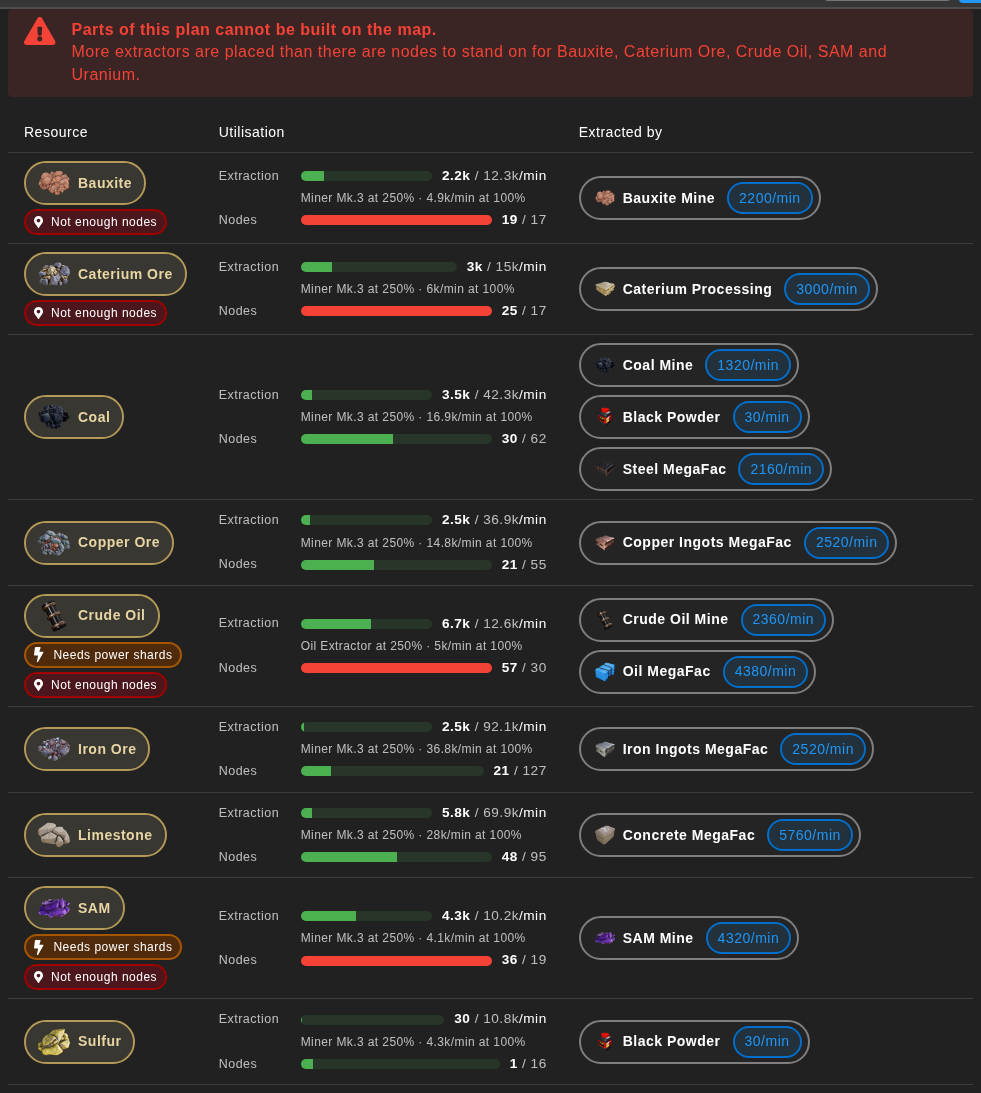
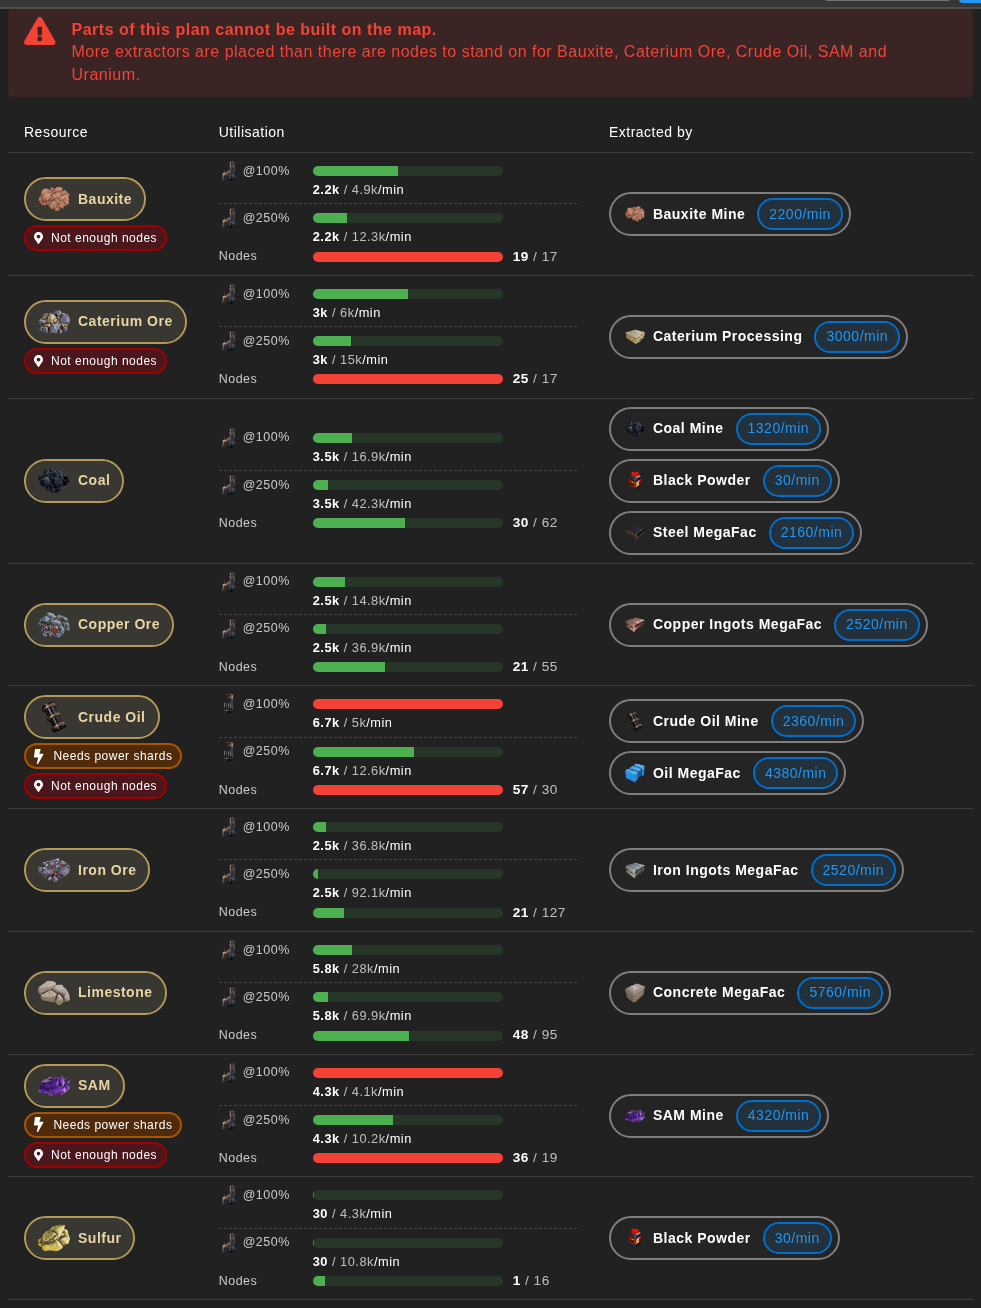
feat(web): a bar per ceiling, all of them the same length
The bars were laid out `84px | 1fr | figures`, so a longer figure beside a bar
stole track from it and no two bars in the table were the same length — the
one thing a column of bars has to be. The track is a fixed 190px now, and the
extraction figures moved underneath their own bar, snug to it, where nothing
they read can change it.

That freed the room to say what the caption underneath was saying in prose.
Extraction is measured against both ceilings, a bar each: what every node
gives unclocked, and what the same nodes give at the 250% cap. Crude Oil at
6.7k against 5k and 6.7k against 12.6k is what "needs power shards" looks
like — one bar full and red, the next with room — rather than a sentence
about it. The extractor those ceilings assume is its own icon rather than its
name, which is both shorter and the thing people recognise.

A dashed rule separates the two ceilings, being the same measure twice; a
solid one separates extraction from nodes, being a change of subject. Nodes
keeps its figures beside its bar, since two short numbers cost nothing there
and the bar's width no longer depends on them.

The header chip read "5 beyond the map", which said the map is missing rather
than that the plan outruns it. It reads "5 beyond map allowances".

Verified in the browser against Mael's MegaPlan. The extractor icon came out
dimmed at first: the key's 0.75 opacity applied to the icon as well as its
text, and that icon is the only thing naming the machine.
[…]

diff --git a/web/src/components/planner/StatisticsResources.vue b/web/src/components/planner/StatisticsResources.vue
@@ -21,7 +21,7 @@
       variant="flat"
     >
       <i class="fas fa-exclamation-triangle" />
-      <span class="ml-2">{{ problems.blockers }} beyond the map</span>
+      <span class="ml-2">{{ problems.blockers }} beyond map allowances</span>
     </v-chip>
     <v-chip
       v-if="problems.needsOverclock.length > 0"
@@ -99,42 +99,52 @@
               </v-chip>
             </div>
           </td>
-          <!-- Extraction and nodes are the same question asked twice — how much of what exists is
-               spoken for — so they read as two bars of one measure rather than two columns. -->
+          <!-- Extraction is measured against both ceilings, one bar each: what the nodes give
+               unclocked, and what they give at the 250% cap. A plan between the two is buildable
+               and needs power shards, which is a thing you see rather than read. The extractor
+               those ceilings assume is named by its own icon — the same nodes worked by a Mk.1
+               come to a quarter of a Mk.3's. -->
           <td class="utilisation">
             <template v-if="!resource.utilisation">
               <span class="text-medium-emphasis">&mdash;</span>
             </template>
             <template v-else-if="resource.utilisation.status === 'unlimited'">
-              <div class="bar-row">
-                <span class="bar-label">Extraction</span>
-                <span class="text-caption text-medium-emphasis">Unlimited &mdash; drawn from any shoreline</span>
-                <span class="bar-values"><b>{{ formatCompactPrecise(resource.totalAmount) }}</b>/min</span>
+              <div class="bar-line">
+                <span class="bar-key">
+                  <game-asset height="20" :subject="resource.utilisation.capacity.extractor" type="building" width="20" />
+                </span>
+                <span class="text-caption text-medium-emphasis">Unlimited &mdash; any shoreline</span>
+                <span class="bar-inline"><b>{{ formatCompactPrecise(resource.totalAmount) }}</b>/min</span>
               </div>
             </template>
             <template v-else>
-              <div class="bar-row">
-                <span class="bar-label">Extraction</span>
-                <v-progress-linear
-                  bg-opacity="0.15"
-                  :color="barColour(resource.utilisation.ofMaxClock)"
-                  height="10"
-                  :model-value="barValue(resource.utilisation.ofMaxClock)"
-                  rounded
-                />
-                <span class="bar-values">
+              <div
+                v-for="ceiling in extractionCeilings(resource.utilisation)"
+                :key="ceiling.clock"
+                class="ceiling"
+              >
+                <div class="bar-line">
+                  <span class="bar-key">
+                    <game-asset height="20" :subject="resource.utilisation.capacity.extractor" type="building" width="20" />
+                    <span class="bar-key-text ml-1">@{{ ceiling.clock }}</span>
+                  </span>
+                  <v-progress-linear
+                    bg-opacity="0.15"
+                    :color="barColour(ceiling.fraction)"
+                    height="10"
+                    :model-value="barValue(ceiling.fraction)"
+                    rounded
+                  />
+                </div>
+                <!-- Snug under its own bar rather than out to the right of it, so every bar in the
+                     table is the same length whatever its figures read. -->
+                <div class="bar-figure">
                   <b>{{ formatCompactPrecise(resource.totalAmount) }}</b>
-                  <span class="text-medium-emphasis"> / {{ formatCompactPrecise(resource.utilisation.capacity.atMaxClock) }}</span>/min
-                </span>
+                  <span class="text-medium-emphasis"> / {{ formatCompactPrecise(ceiling.capacity) }}</span>/min
+                </div>
               </div>
-              <!-- "92.1k/min at 250%" is meaningless without the machine it assumes: the same
-                   nodes worked by a Mk.1 come to a quarter of it. -->
-              <div class="bar-caption text-caption text-medium-emphasis">
-                {{ getBuildingDisplayName(resource.utilisation.capacity.extractor) }} at 250%
-                &middot; {{ formatCompactPrecise(resource.utilisation.capacity.atStandardClock) }}/min at 100%
-              </div>
-              <div v-if="resource.nodeUsage && totalNodes(resource.nodeUsage.nodesAvailable) > 0" class="bar-row">
-                <span class="bar-label">Nodes</span>
+              <div v-if="resource.nodeUsage && totalNodes(resource.nodeUsage.nodesAvailable) > 0" class="bar-line">
+                <span class="bar-key"><span class="bar-key-text">Nodes</span></span>
                 <v-progress-linear
                   bg-opacity="0.15"
                   :color="barColour(nodeFraction(resource.nodeUsage.nodesUsed, resource.nodeUsage.nodesAvailable))"
@@ -142,7 +152,9 @@
                   :model-value="barValue(nodeFraction(resource.nodeUsage.nodesUsed, resource.nodeUsage.nodesAvailable))"
                   rounded
                 />
-                <span class="bar-values">
+                <!-- Node counts are two short numbers, so they stay beside their bar: the bar's
+                     width is fixed, so nothing they do changes its length. -->
+                <span class="bar-inline">
                   <b>{{ formatCompactPrecise(totalNodes(resource.nodeUsage.nodesUsed)) }}</b>
                   <span class="text-medium-emphasis"> / {{ formatCompactPrecise(totalNodes(resource.nodeUsage.nodesAvailable)) }}</span>
                 </span>
@@ -151,9 +163,9 @@
                    "0 / 18" well row saying nothing. -->
               <div
                 v-if="resource.nodeUsage && (totalNodes(resource.nodeUsage.satellitesUsed) > 0 || totalNodes(resource.nodeUsage.nodesAvailable) === 0)"
-                class="bar-row"
+                class="bar-line"
               >
-                <span class="bar-label">Well nodes</span>
+                <span class="bar-key"><span class="bar-key-text">Well nodes</span></span>
                 <v-progress-linear
                   bg-opacity="0.15"
                   :color="barColour(nodeFraction(resource.nodeUsage.satellitesUsed, resource.nodeUsage.satellitesAvailable))"
@@ -161,7 +173,7 @@
                   :model-value="barValue(nodeFraction(resource.nodeUsage.satellitesUsed, resource.nodeUsage.satellitesAvailable))"
                   rounded
                 />
-                <span class="bar-values">
+                <span class="bar-inline">
                   <b>{{ formatCompactPrecise(totalNodes(resource.nodeUsage.satellitesUsed)) }}</b>
                   <span class="text-medium-emphasis"> / {{ formatCompactPrecise(totalNodes(resource.nodeUsage.satellitesAvailable)) }}</span>
                 </span>
@@ -210,7 +222,6 @@
   import {
     getPartDisplayName,
   } from '@/utils/helpers'
-  import { getBuildingDisplayName } from '@/utils/factory-management/common'
   import { PURITY_LABELS } from '@/utils/factory-management/building-groups/extraction'
   import {
     calculateResourceNodeUsage,
@@ -243,6 +254,14 @@
   }
 
   const barValue = (fraction: number) => Math.min(100, Math.max(0, fraction * 100))
+
+  // The two ceilings, in the order a plan meets them: what every node gives with no power shards,
+  // then what the same nodes give at the game's clock cap. Sitting between the two is what
+  // "needs power shards" means, and with a bar each it is visible without reading anything.
+  const extractionCeilings = (utilisation: ResourceUtilisation) => [
+    { clock: '100%', capacity: utilisation.capacity.atStandardClock, fraction: utilisation.ofStandardClock },
+    { clock: '250%', capacity: utilisation.capacity.atMaxClock, fraction: utilisation.ofMaxClock },
+  ]
 
   const nodeFraction = (used: NodeCounts, available: NodeCounts) => {
     const total = totalNodes(available)
@@ -389,40 +408,61 @@
     min-width: 360px;
   }
 
-  // Label, bar, figures — one grid so every row's bar starts and ends on the same pixel, whatever
-  // its label reads.
-  .bar-row {
+  // Key, bar, and (for nodes) figures. The bar's track is a FIXED width rather than a fraction of
+  // what is left: with `1fr` a longer figure beside it stole track, and no two bars in the table
+  // were the same length, which is the one thing a column of bars has to be.
+  .bar-line {
     display: grid;
-    grid-template-columns: 72px minmax(70px, 1fr) auto;
+    grid-template-columns: 84px 190px auto;
     align-items: center;
     gap: 10px;
-    padding: 2px 0;
   }
 
-  .bar-label {
+  .bar-key {
+    display: inline-flex;
+    align-items: center;
     font-size: 0.78rem;
+    white-space: nowrap;
     color: rgb(var(--v-theme-on-surface));
-    opacity: 0.7;
   }
 
-  .bar-values {
+  // Muted on the text alone: dimming the whole key takes the extractor icon down with it, and
+  // the icon is the only thing naming the machine the ceiling assumes.
+  .bar-key-text {
+    opacity: 0.75;
+  }
+
+  // Under its own bar and tight to it: the figure belongs to the bar above, not to the row below.
+  .bar-figure {
+    padding-left: 94px;
+    margin-top: -1px;
+    font-size: 0.8rem;
+  }
+
+  .bar-inline {
     white-space: nowrap;
     font-size: 0.85rem;
   }
 
-  // Indented to the bar's own column, so it reads as a footnote to the bar above rather than a
-  // row of its own.
-  .bar-caption {
-    padding-left: 82px;
-    // Wrapping splits "at 100%" onto its own line, which reads as a third bar's label rather
-    // than the tail of this sentence. The column shrink-wraps, so it simply gets wider.
-    white-space: nowrap;
+  // A dash between the two extraction ceilings — the same measure twice, so they are separated
+  // rather than divided. The solid rule below is for the real change of subject, extraction to
+  // nodes.
+  .ceiling + .ceiling {
+    margin-top: 4px;
+    padding-top: 4px;
+    border-top: 1px dashed rgba(255, 255, 255, 0.16);
+  }
+
+  .ceiling:last-of-type {
+    margin-bottom: 6px;
+    padding-bottom: 6px;
+    border-bottom: 1px solid rgba(255, 255, 255, 0.28);
   }
 
   .details {
     color: var(--sf-status-warning);
     max-width: 46ch;
-    padding-left: 82px;
+    padding-left: 94px;
   }
 
   // v-table's default cell height assumes one line; these rows hold chips and wrap.

diff --git a/web/src/pages/changelog.vue b/web/src/pages/changelog.vue
@@ -279,9 +279,9 @@
           src="/assets/changelog/beta6/raw-resource-utilisation.png"
         />
         <ul class="ml-6 mt-2">
-          <li><b>Extraction</b> is what you take against the most the world can give: 6.7k of 12.6k Crude Oil. Under it, the machine that ceiling assumes — an Oil Extractor at 250% — and what the same nodes give with no power shards at all.</li>
+          <li><b>Extraction</b> gets a bar against each ceiling: what every node gives unclocked, and what the same nodes give at the 250% cap. 6.7k of 5k Crude Oil on the first and 6.7k of 12.6k on the second is exactly what "needs power shards" looks like. The extractor those ceilings assume is named by its own icon.</li>
           <li><b>Nodes</b> is how many extractors your plan places against how many exist to stand on. Purity is picked per building group, so nothing used to stop a plan putting 24 Raw Quartz miners on a map holding 17 quartz nodes.</li>
-          <li>Both are bars: green while there is room, amber from 60%, red from 80%. What is wrong with a resource is a chip beside its name.</li>
+          <li>Every bar is green while there is room, amber from 60%, red from 80%. What is wrong with a resource is a chip beside its name.</li>
           <li>Over the unclocked ceiling your plan needs power shards, and says so. Over the 250% one, the resource simply is not on the map in that quantity.</li>
           <li><b>You are told where the rest could come from.</b> Most resources have a Converter recipe behind them, so a plan short of Uranium is pointed at Uranium Ore (Convert: Bauxite). Crude Oil and SAM have no synthesis route at all, so for those the map's total is final.</li>
           <li>The Raw Resources and Statistics headers both carry a count of what is beyond the map, so a collapsed section still tells you.</li>

diff --git a/web/src/components/planner/Statistics.vue b/web/src/components/planner/Statistics.vue
@@ -16,7 +16,7 @@
               <i class="fas fa-exclamation-triangle" />
               <span class="ml-2">
                 {{ worldProblems.blockers }}
-                {{ worldProblems.blockers === 1 ? 'resource' : 'resources' }} beyond the map
+                {{ worldProblems.blockers === 1 ? 'resource' : 'resources' }} beyond map allowances
               </span>
             </v-chip>
           </v-col>

diff --git a/CHANGELOG.md b/CHANGELOG.md
@@ -202,7 +202,7 @@ Raw resources are no longer assumed. Ore, water, oil and gas are dug up by build
 ### Raw Resources: what the map can actually supply
 
 - **Raw Resources says how much of the world a plan is using.** A plan can balance perfectly and still be unbuildable: the satisfaction maths only ever asks whether a factory's inputs add up, never whether the ground holds enough to begin with. Ask a mine for 9,107 Crude Oil a minute and the planner solved it happily, because nothing in the calculation engine knew the map has 5,040.
-- **Two bars per resource, because a plan can fail either.** **Extraction** is what the plan takes against the most the world can give — 6.7k of 12.6k Crude Oil — with the machine that ceiling assumes named under it (Oil Extractor at 250%, and what the same nodes give unclocked). **Nodes** is how many extractors the plan places against how many exist to stand on: 57 / 30. Both are bars, green while there is room, amber from 60% and red from 80%, so a plan is read at a glance rather than measured.
+- **Three bars per resource, because a plan can fail in three ways.** Extraction is measured against both ceilings, a bar each: what every node gives unclocked (6.7k of 5k Crude Oil — over, which is what needing power shards looks like) and what the same nodes give at the 250% cap (6.7k of 12.6k). The extractor those ceilings assume is named by its own icon, since the same nodes worked by a Mk.1 come to a quarter of a Mk.3's. The third bar is **Nodes**: how many extractors the plan places against how many exist to stand on, 57 / 30. Green while there is room, amber from 60% and red from 80%, so a plan is read at a glance rather than measured.
 - **The node count is the check a rate ceiling cannot make.** Purity is chosen per building group, so nothing stopped a plan describing 24 Raw Quartz miners when the map has 17 quartz nodes, or 7 Uranium miners where there are 5, while every total still balanced. Where the extractors fit overall but not on the purities named, it says so as a note rather than a blocker, since a new group starts on a normal node.
 - **Over the unclocked ceiling, a plan needs power shards and says so.** Over the 250% one, the resource is not on the map in that quantity and cannot be, however it is clocked.
 - **A plan past the wall is told where the rest could come from.** Most resources have a Converter recipe behind them, so a plan short of Uranium is pointed at Uranium Ore (Convert: Bauxite) rather than left at "impossible". Crude Oil and SAM have no synthesis route at all — nothing in the game makes either — so for those the map's total is final, and the warning says so instead of implying a way out.
